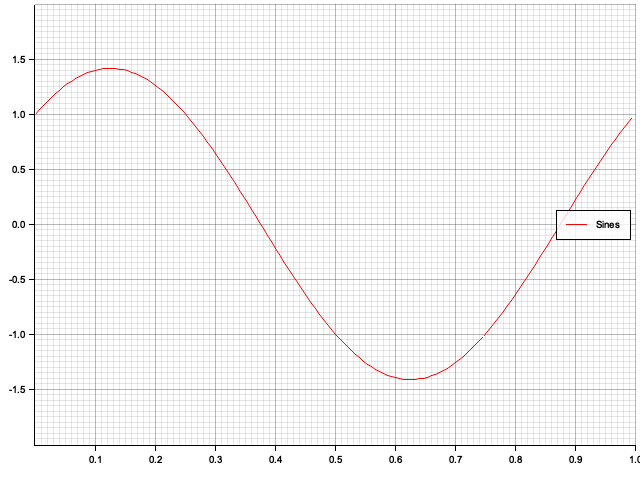
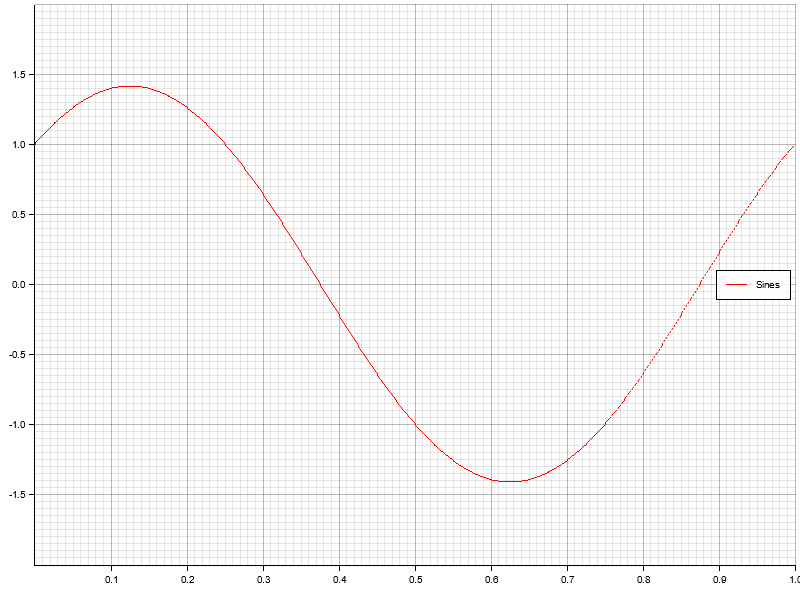
update plot.rs and readme

Changed region(s): [[0.0, 0.0, 1.0, 0.9688], [0.2188, 0.6875, 0.25, 0.7188], [0.125, 0.6875, 0.1562, 0.7188]]

diff --git a/examples/plot.rs b/examples/plot.rs
@@ -18,7 +18,7 @@ macro_rules! draw {
 }
 
 fn main() -> Result<(), Box<dyn std::error::Error>> {
-    let sample_rate = 400.0;
+    let sample_rate = 800.0;
 
     draw!(
         sample_rate,
@@ -68,6 +68,16 @@ fn main() -> Result<(), Box<dyn std::error::Error>> {
         )
     )?;
 
+    draw!(
+        sample_rate,
+        "sines_300_50_hz.png",
+        "Sine 300Hz + 50 Hz",
+        Waveform::<f32>::with_components(
+            sample_rate,
+            vec![sine!(frequency = 300), sine!(frequency = 50, amplitude = 0.3)]
+        )
+    )?;
+
     Ok(())
 }
 
@@ -77,7 +87,7 @@ fn draw_internal<I: IntoIterator<Item = (f32, f32)>, P: AsRef<Path>>(
     iter: I,
 ) -> Result<(), Box<dyn std::error::Error>> {
     let img_path = Path::new("img").join(path);
-    let root = BitMapBackend::new(&img_path, (640, 480)).into_drawing_area();
+    let root = BitMapBackend::new(&img_path, (800, 600)).into_drawing_area();
     root.fill(&WHITE)?;
     let mut chart = ChartBuilder::on(&root)
         // .caption(label, ("sans-serif", 50).into_font())
